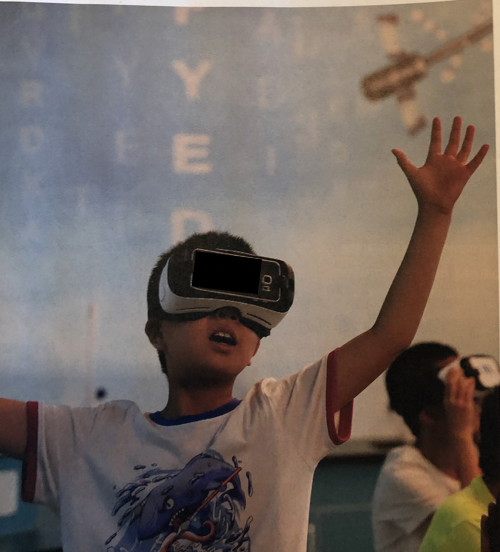
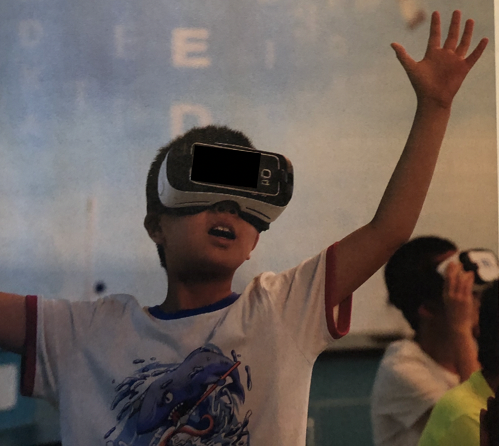
resize images on index.html

diff --git a/index.html b/index.html
@@ -181,10 +181,10 @@ gtag('config', 'UA-127639225-2');
             </ul>
           </div>
           <div class="col-lg-4" align="center">
-            <img src="images/Next to GIF of beating brain.png" class="img-thumbnail vertical-center" alt="Rotating frontal lobe"  style="width:40vmin;">
+            <img src="images/Next to GIF of beating brain.png" class="img-thumbnail vertical-center" alt="Rotating frontal lobe">
           </div>
           <div class="col-lg-4" align="center">
-            <img src="images/brain.gif" class="img-thumbnail vertical-center" alt="Rotating frontal lobe"  style="width:40vmin;">
+            <img src="images/brain.gif" class="img-thumbnail vertical-center" alt="Rotating frontal lobe">
           </div>
         </div>
         <hr>
@@ -196,18 +196,20 @@ gtag('config', 'UA-127639225-2');
       </div>
       <div class="container">
         <div class="row justify-content-center p-5">
-          <div class="col-lg-4" align="center">
-            <img src="images/nephew/nephew-1.png" class="img-thumbnail horizontal-left" alt="index-1" style="width:40vmin;" >
+          <div class="col-lg-3" align="center">
+            <img src="images/nephew/nephew-1.png" class="img-thumbnail vertical-center horizontal-left" alt="index-1" >
           </div>
           <div class="col-lg-4" align="center">
-            <img src="images/nephew/nephew-2.png" class="img-thumbnail horizontal-center" alt="index-1" style="width:160vmin;">
+            <img src="images/nephew/nephew-2.png" class="img-thumbnail vertical-center horizontal-center" alt="index-1">
           </div>
-          <div class="col-lg-4" align="center">
-            <img src="images/nephew/nephew-3.png" class="img-thumbnail horizontal-right" alt="index-1" style="width:70vmin;">
+          <div class="col-lg-3" align="center">
+            <img src="images/nephew/nephew-3.png" class="img-thumbnail vertical-center horizontal-right" alt="index-1">
           </div> <br>
          <span class="text-muted">
            <br><br>
-		  <h6><i>Photos Courtesy of the Cutest Nephew in the World</i></h6>
+		  <div class="row">
+        <h6><i>Photos Courtesy of the Cutest Nephew in the World</i></h6>
+      </div>
       </div>
       <hr>
       

diff --git a/css/styles.css b/css/styles.css
@@ -94,6 +94,13 @@ and (max-device-width : 1024px) {
 	background-position: center;
 }
 
+.img-thumbnail {
+	width: 300px;
+	height: 210px;
+	object-fit: cover;
+	
+}
+
 .row {
   margin-bottom: 15px;
 }
